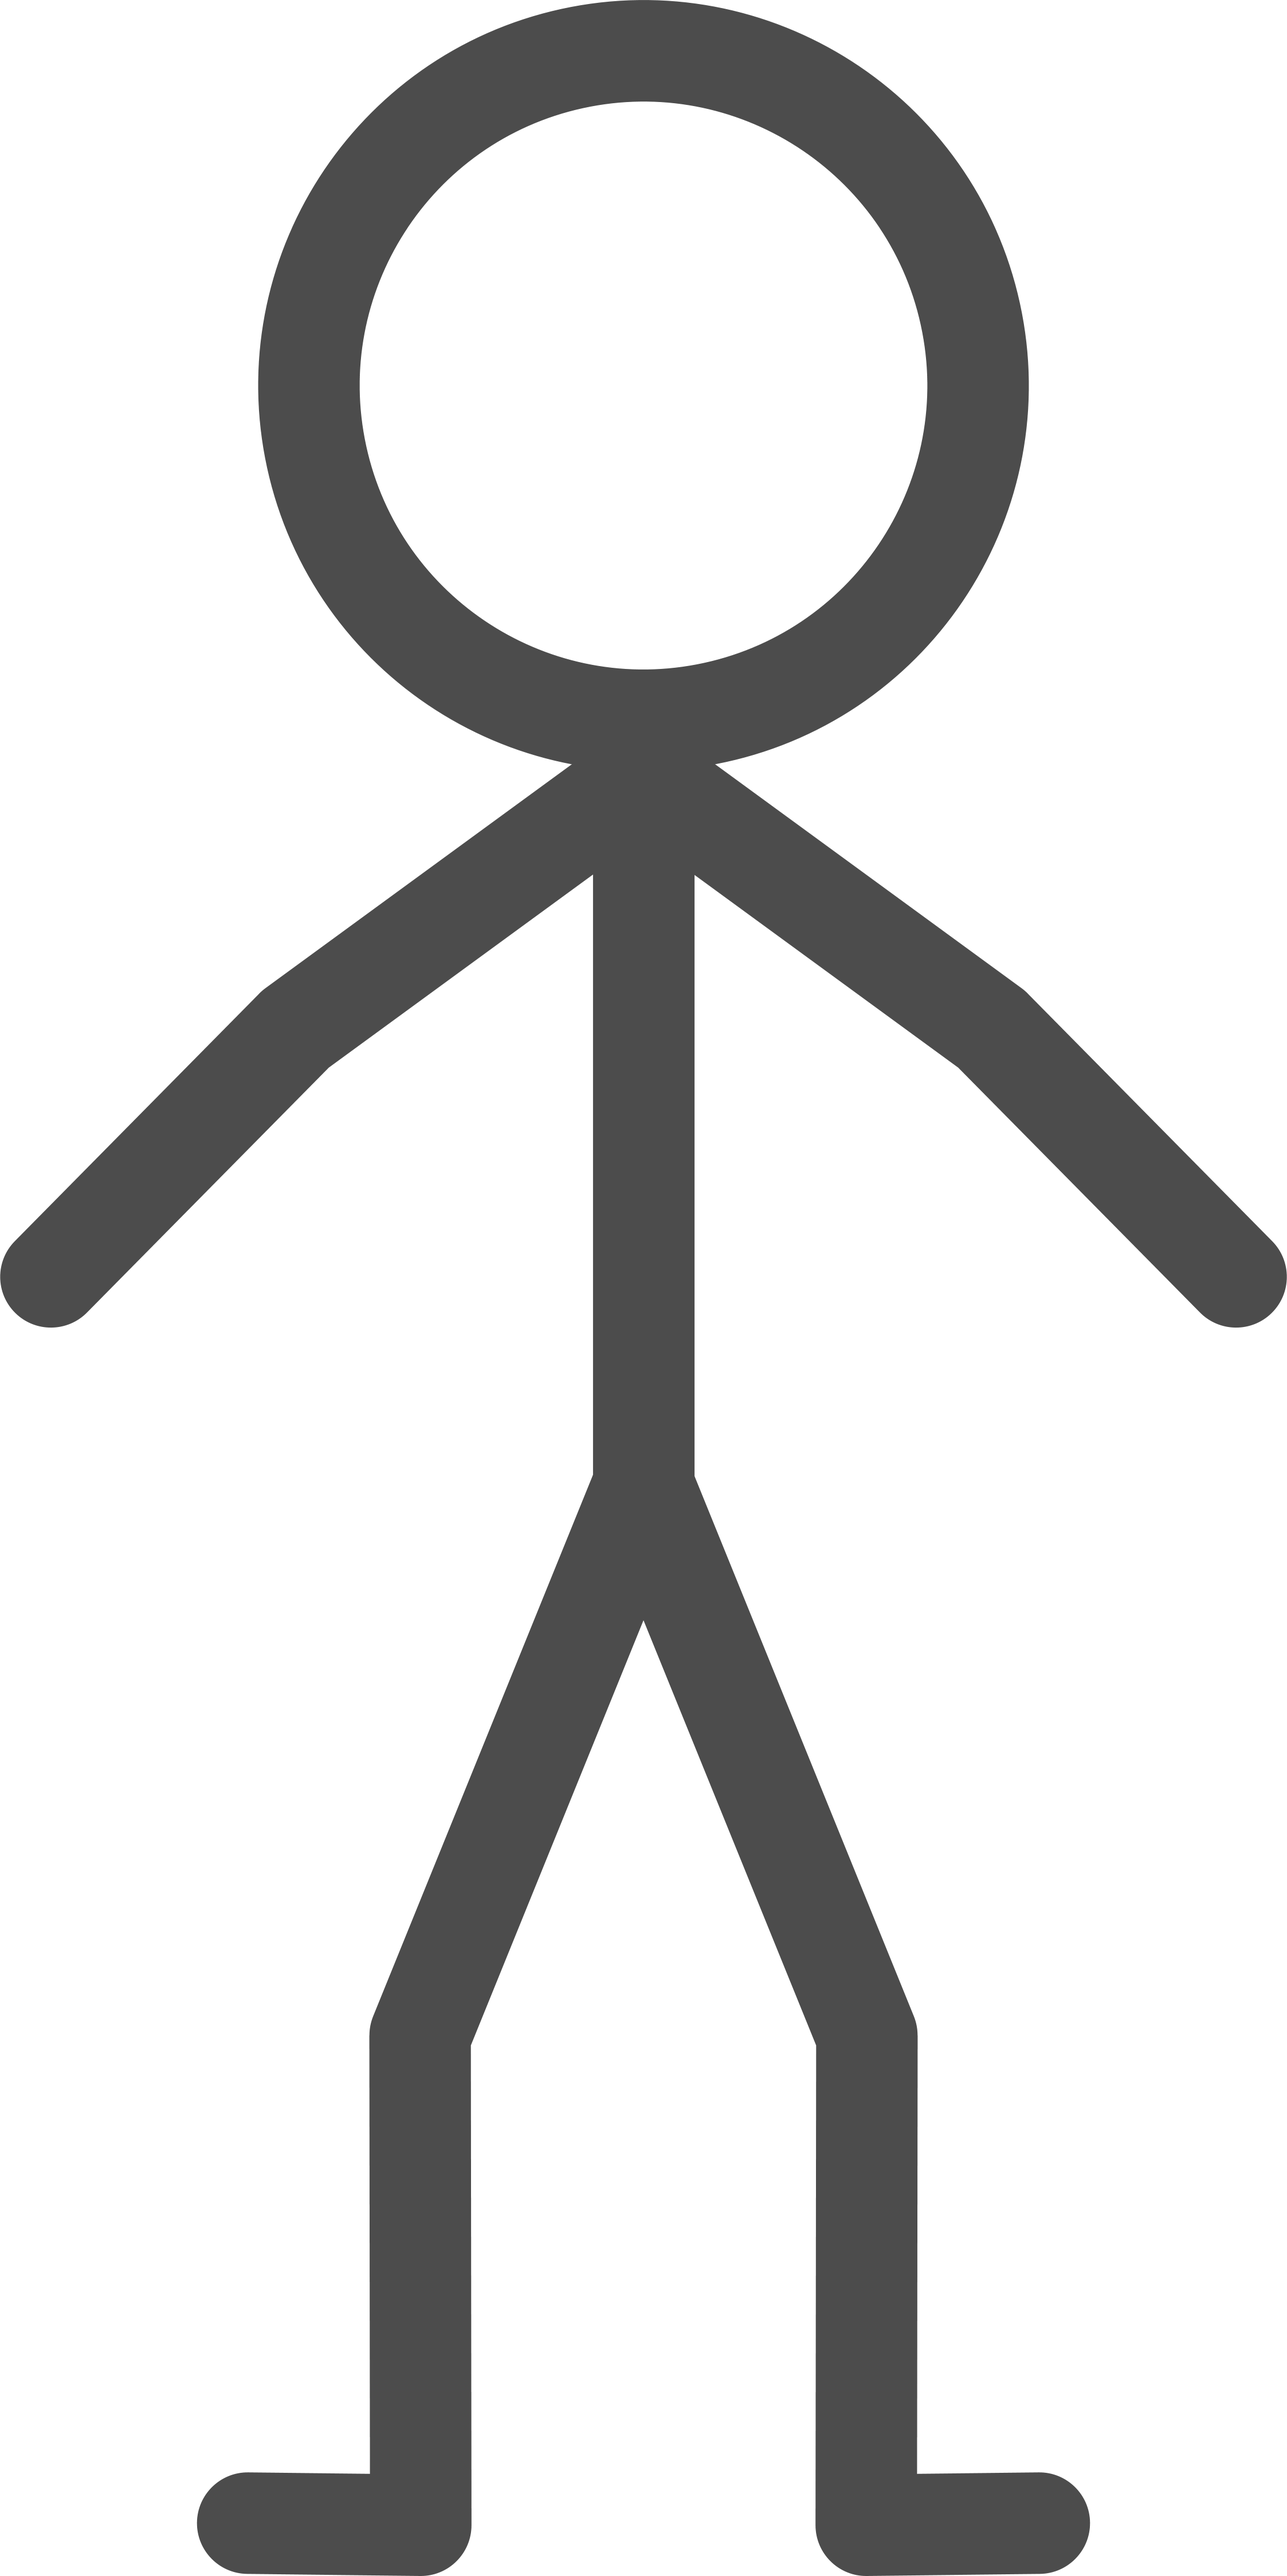
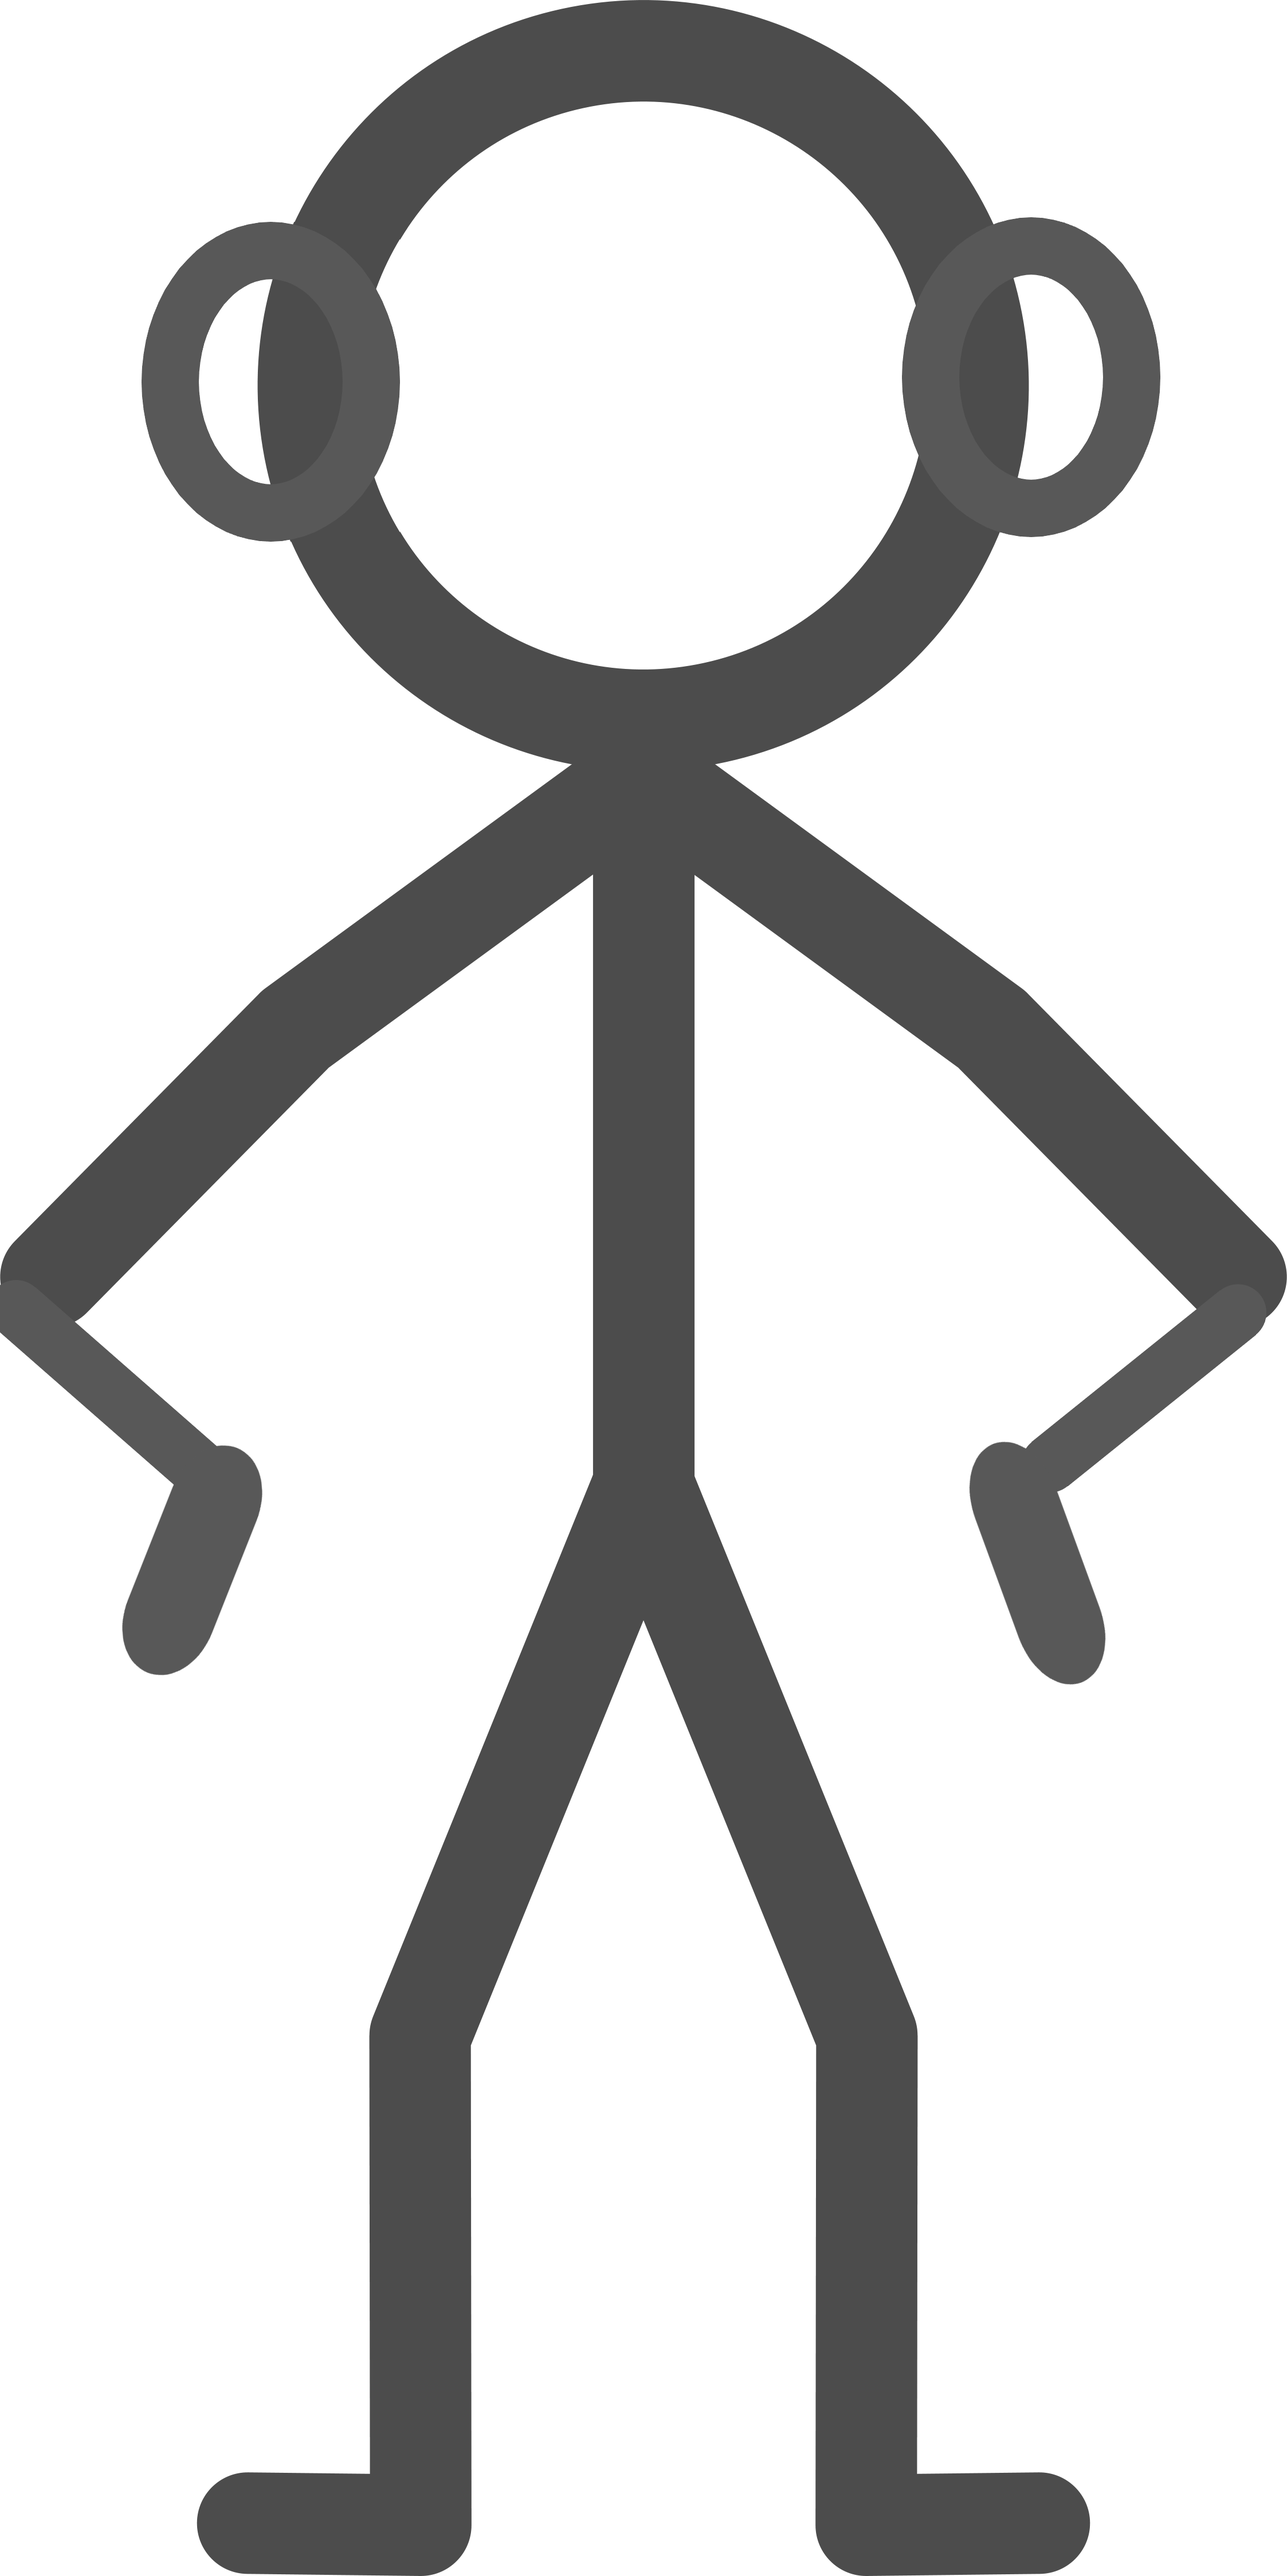
Added New Images, New Stickman and added another pose

diff --git a/pose-2.html b/pose-2.html
@@ -5,18 +5,14 @@
     <link rel="stylesheet" href="style.css">
     <script type="text/javascript" src="javascript/api.js"></script>
 
-
 </head>
 
 <body>
     <div id="left-column">
         <div id="bar">
-            <p><a href="pose-2.html">Pose 2</a></p>
+            <p><a href="index.html">Pose 1</a></p>
             <p>Drag And Drop Clothing and features to create your own funny person:</p>
         </div>
-        <br/>
-
-
         <img src="images/shoe_01_L.png" class="draggable" />
         <img src="images/shoe_01_R.png" class="draggable" />
         <img src="images/shoe_02_L.png" class="draggable" />
@@ -40,8 +36,8 @@
 
         <img src="images/jacket-01.png" class="draggable" width="120px" />
 
-        <img src="images/guitar.png" class="draggable" width="120px">
 
+        <img src="images/guitar.png" class="draggable" width="120px">
 
         <img src="images/mouth_01.png" class="draggable" />
         <img src="images/mouth_02.png" class="draggable" />
@@ -55,11 +51,15 @@
 
         <img src="images/bow-tie.png" class="draggable" width="90px" />
 
+
+
         <img src="images/face-hair_01.png" class="draggable" />
         <img src="images/face-hair_02.png" class="draggable" />
         <img src="images/face-hair_03.png" class="draggable" />
         <img src="images/face-hair_04.png" class="draggable" />
         <img src="images/face-hair_05.png" class="draggable" />
+        <img src="images/face-hair_06.png" class="draggable" width="90px" />
+
 
 
         <img src="images/eyes_01.png" class="draggable" />
@@ -95,7 +95,7 @@
 
     </div>
     <div id="right-column">
-        <img src="images/stickman.png" />
+        <img src="images/stickman-5.png" />
         <br/><br/>
 
         <img src="images/logo.png" id="logo" />

diff --git a/style.css b/style.css
@@ -1,14 +1,14 @@
-/* ====Body-Styling==== */
+/* ====BODY-STYLING==== */
 
 body {
     margin: 0;
     padding: 0;
     width: 100%;
-    background-color: azure;
+    background-color: white;
 }
 
 
-/* ====Columns==== */
+/* ====COLUMNS AND IMAGES==== */
 
 #left-column {
     width: 50%;
@@ -16,6 +16,27 @@ body {
     background-color: lightskyblue;
     border: 5px solid darkblue;
     border-radius: 6px;
+}
+
+#left-column #bar p a {
+    font-family: Impact, Haettenschweiler, 'Arial Narrow Bold', sans-serif;
+    color: lightskyblue;
+    font-size: 40px;
+    text-decoration: none;
+    margin-left: 250px;
+    left: 150px;
+    background-color: darkblue;
+    padding: 15px;
+}
+
+#left-column #bar p {
+    color: darkblue;
+    font-family: Impact, Haettenschweiler, 'Arial Narrow Bold', sans-serif;
+}
+
+#left-column #bar p a:hover {
+    background-color: lightskyblue;
+    color: darkblue;
 }
 
 #right-column img {
